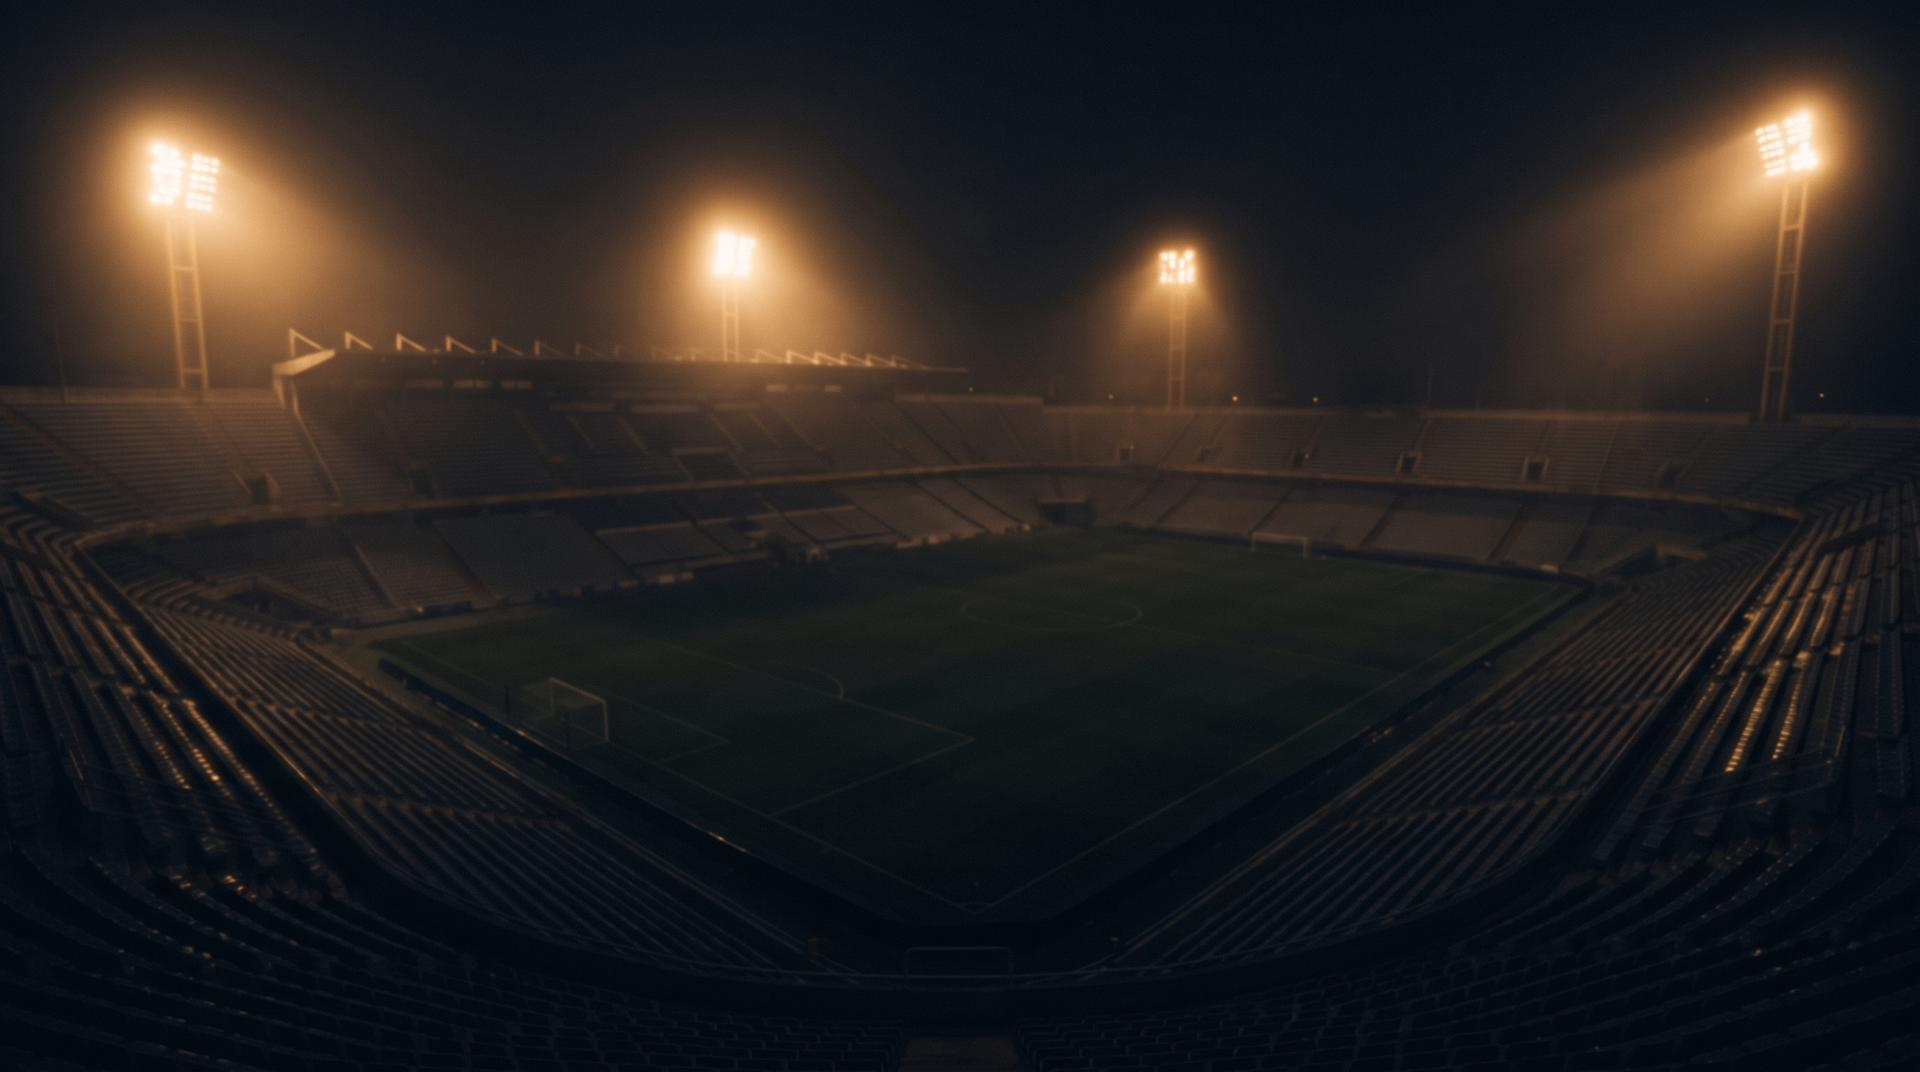
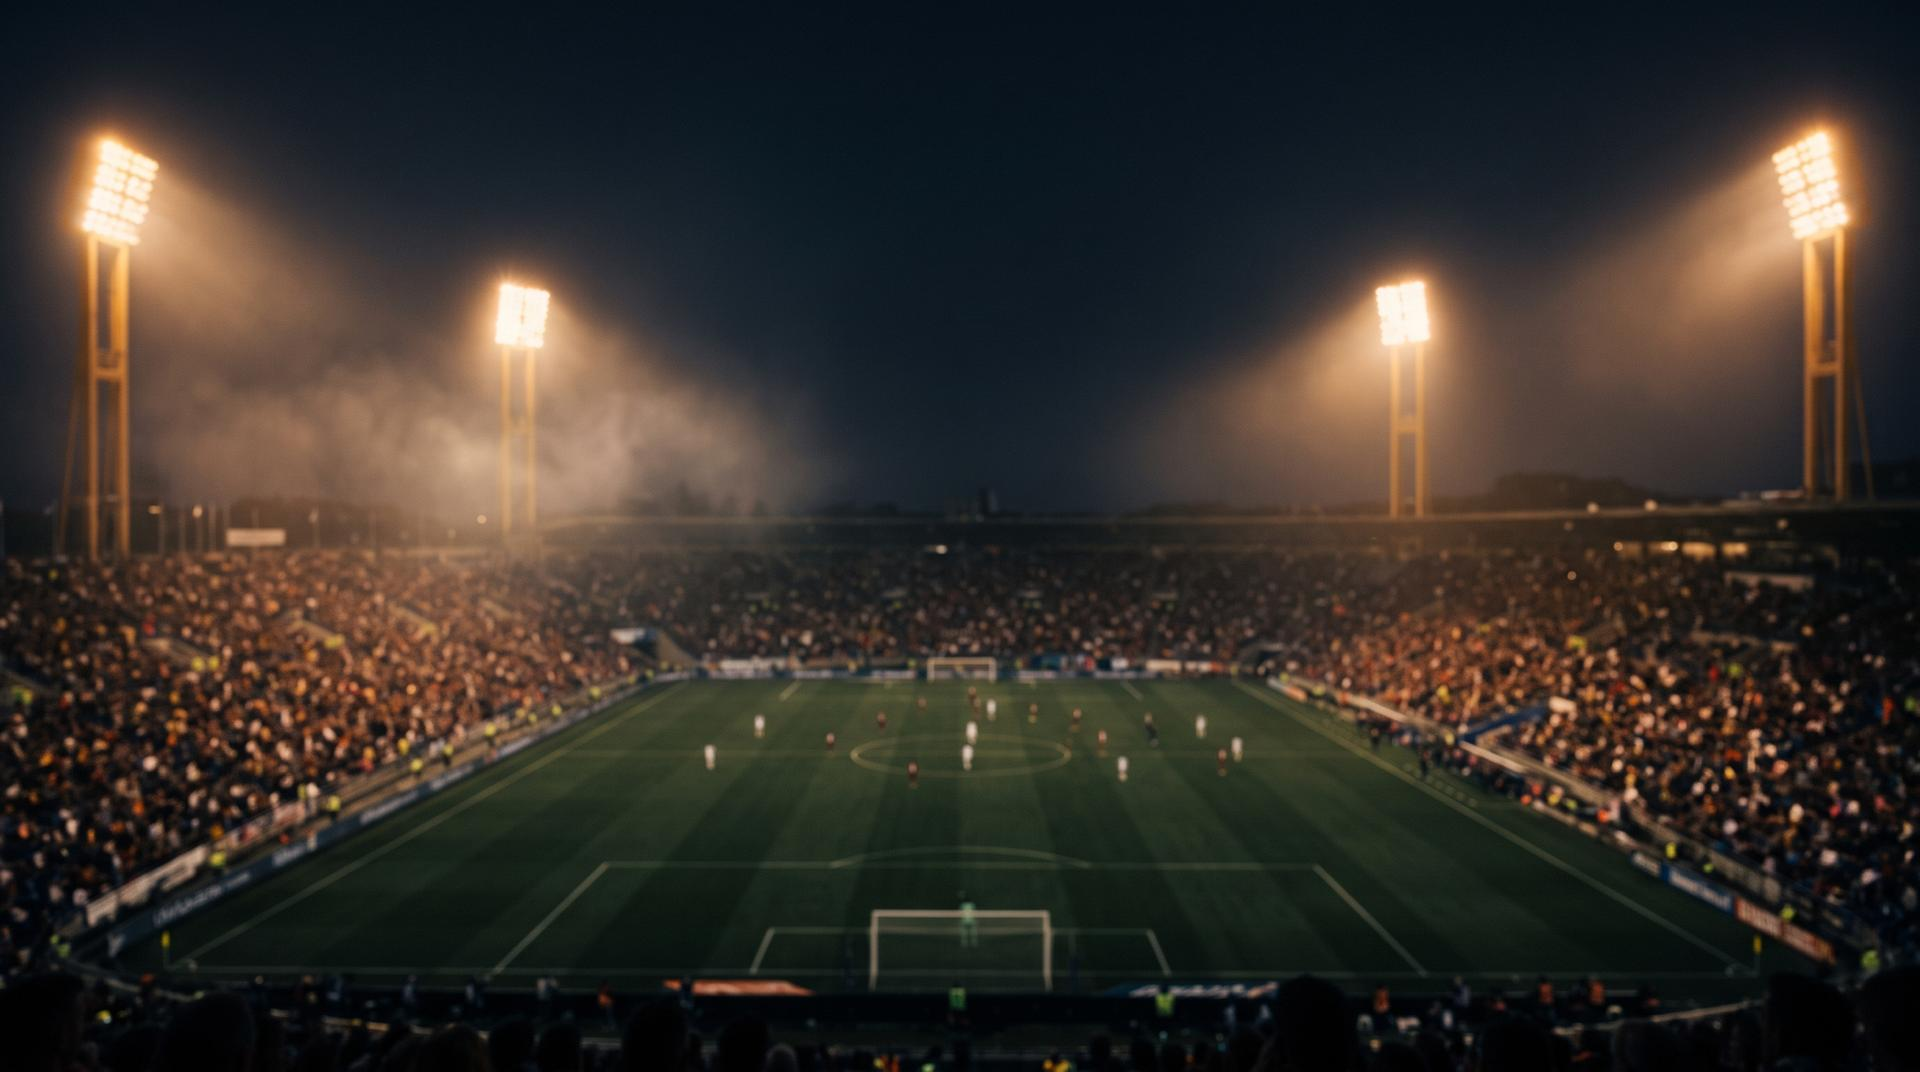
feat: swap in the match-night backdrop and lift the dim to 50%
The backdrop is now a match night seen from behind one goal: four floodlight
towers, a full crowd, players on the pitch. The one it replaces was a darker and
emptier stadium that needed a 70% dim to sit behind the phone, and what reached
the screen was mostly four glows on black.

Re-encoded the same way as the last one, 1920px wide at JPEG quality 75, 122KB.
The overlay drops to 50% in both rules, because this image has something worth
seeing: at 70% the crowd disappeared.

The phone is still the brightest thing on screen, but the measure that shows it
had to change. By mean luminance it is close at the widest window, 45.2 for the
backdrop against the phone's 45.6 at 2560 by 1080, which on its own would read
as a tie. Mean is the wrong measure for a dark panel with bright accents: by
peak the phone wins everywhere, 227 for its amber button against 131 for the
brightest floodlight, and it is also the only sharp thing on a blurred page.

At 390 and 414 the screens are pixel identical with and without the backdrop
rules, unchanged.

diff --git a/app/web/index.html b/app/web/index.html
@@ -60,7 +60,7 @@
     }
 
     html::after {
-      background-color: rgba(16, 19, 25, 0.7);   /* #101319 at 70% */
+      background-color: rgba(16, 19, 25, 0.5);   /* #101319 at 50% */
     }
 
     #frame {

diff --git a/app/web/phone-frame.css b/app/web/phone-frame.css
@@ -54,7 +54,7 @@
   }
 
   html::after {
-    background-color: rgba(16, 19, 25, 0.7);   /* #101319 at 70% */
+    background-color: rgba(16, 19, 25, 0.5);   /* #101319 at 50% */
   }
 
   body {

diff --git a/HANDOFF.md b/HANDOFF.md
@@ -628,18 +628,24 @@ line, `background-color: transparent` on `body` above the breakpoint. The trap
 worth remembering is that an opacity sweep looked like the obvious remedy and
 would have made the page lighter without ever revealing the photograph.
 
-The image is a night shot already: mean luminance 35.6 of 255, with 60% of its
-pixels below 32 and 1% above 192, which is the floodlights. That is why it
-survives a 70% dim at all. Measured at 1920 by 1080, the backdrop reads 25.8
-mean against the phone's 45.6, so the phone stays the brightest thing on screen.
+The image is a match night seen from behind one goal: four floodlight towers, a
+full crowd, players on the pitch. Mean luminance 49.5 of 255, with 44% of its
+pixels below 32 and 1% above 192, which is the lights. It replaced a darker and
+emptier stadium that needed a 70% dim to sit behind the phone; this one carries
+the crowd and the lights that make it read as a match, and takes 50%.
 
-It is 100KB: 1920px wide, JPEG quality 75. It arrived as a 2.9MB PNG, which
-costs phones nothing because the media query means they never request it, but
-was a second of desktop load for a picture that is blurred 8px and dimmed to
-30%. Re-encoding took 96.7% off and moved the mean luminance by nothing
-measurable, 35.6 before and 35.6 after, with the floodlight peak going 250 to
-252. Nothing about how it reads changed, which is the point: at this treatment
-the image can take far more compression than it looks like it should.
+The phone stays the brightest thing on screen, though by mean it is close at the
+widest window: 45.2 for the backdrop against 45.6 for the phone at 2560 by 1080,
+and 42.8 against 51.1 at 1366 by 768. Mean is the wrong measure here. The phone
+is a dark panel with bright accents, and by peak it wins at every width, 227 for
+its amber button against 131 for the brightest floodlight. It also reads because
+it is the only sharp thing on the page.
+
+It is 122KB: 1920px wide, JPEG quality 75, the same treatment the previous
+backdrop got. A photograph that is blurred 8px and dimmed to half can take far
+more compression than it looks like it should, and phones never pay for it at
+all: the media query means they do not request it, measured as zero requests at
+390px against one at 1920px.
 
 ## Verifying the app in a browser
 

diff --git a/docs/DESIGN.md b/docs/DESIGN.md
@@ -359,16 +359,17 @@ does not rebuild it. Inside that shell the iframe is 390px wide, below the
 apply. The stylesheet still matters when a screen is opened directly.
 
 **Above the breakpoint the page carries a stadium photograph**,
-`assets/stadium-bg.jpg`, at `cover` and centred, blurred 8px on `html::before`
-and dimmed by `html::after` at `#101319` 70%. The blur sits on a pseudo-element
-so the phone itself stays sharp, and the dim keeps the phone the brightest thing
-on screen: measured at 1920 by 1080, the backdrop reads a mean luminance of 25.8
-against the phone's 45.6. Both rules live inside the media query, so a phone
+`assets/stadium-bg.jpg`, a match night seen from behind one goal: four
+floodlight towers, a full crowd and players on the pitch. It is at `cover` and
+centred, blurred 8px on `html::before` and dimmed by `html::after` at `#101319`
+50%. The blur sits on a pseudo-element so the phone itself stays sharp, and the
+dim keeps the phone the brightest thing on screen. By mean luminance that is
+close at the widest window, 45.2 for the backdrop against the phone's 45.6, but
+by peak it is not close at any width: the backdrop tops out at 131 and the
+phone's amber button reaches 227. Both rules live inside the media query, so a phone
 never applies them and never downloads the image, which was measured as zero
 requests at 390px against one at 1920px. The file is 1920px wide at JPEG quality
-75, 100KB, which is what a backdrop that is blurred and dimmed needs: the
-source photograph was a 2.9MB PNG and converting it changed the mean luminance
-by nothing measurable.
+75, 122KB, which is what a backdrop that is blurred and dimmed needs.
 
 Because the shell draws its own bezel it also carries its own copy of these
 rules. `body` there is a full-viewport flex container, and the base layer paints
